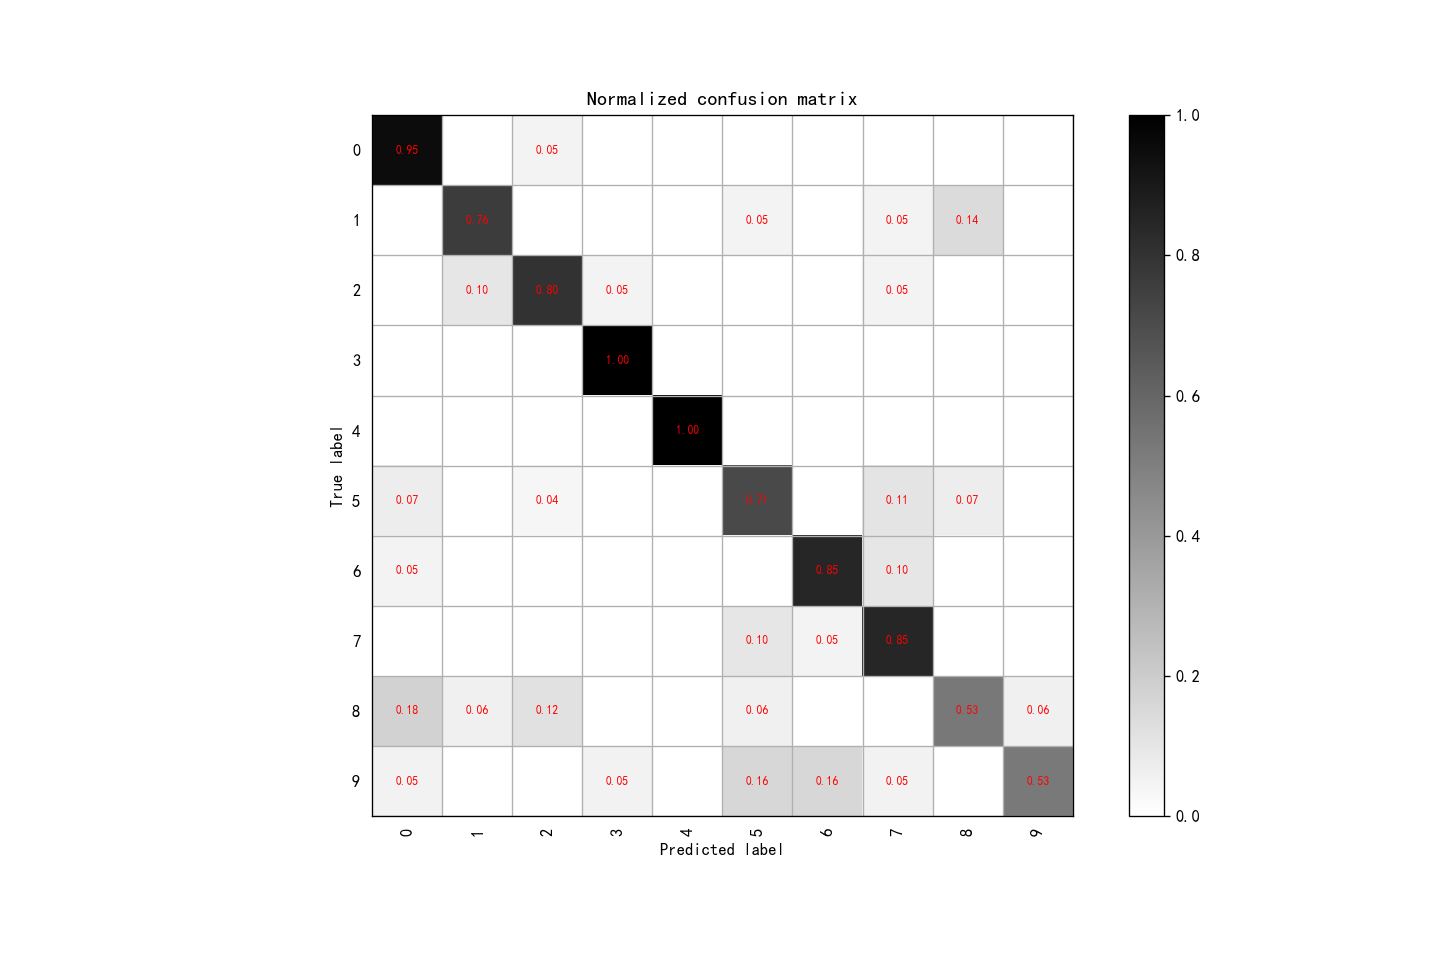
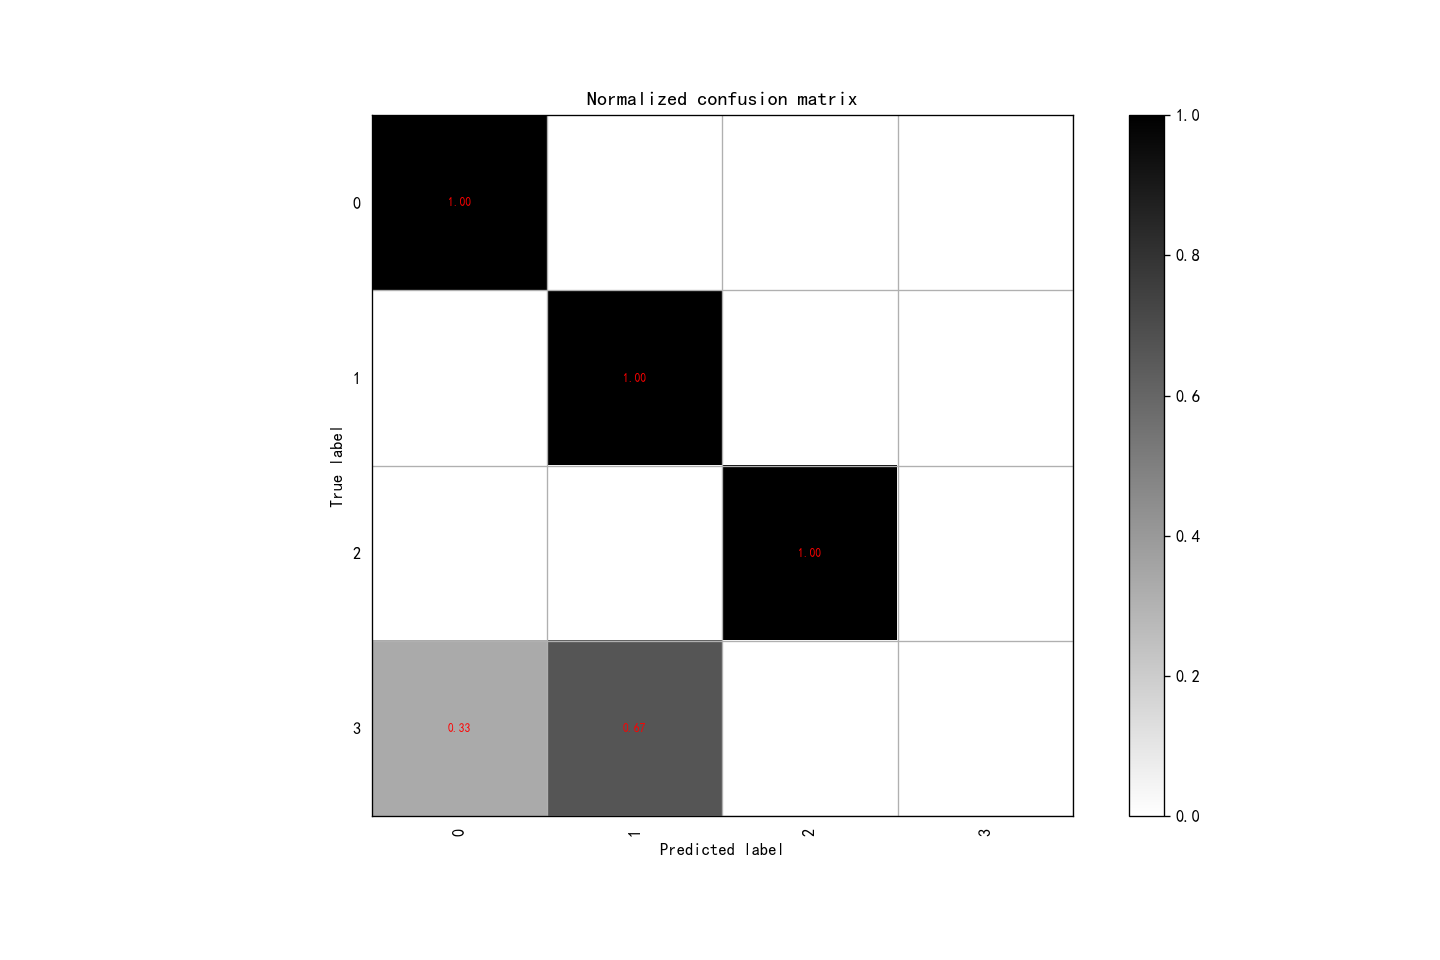
添加了自测的数据集，修改了读取路径

diff --git a/SVM.py b/SVM.py
@@ -21,11 +21,11 @@ X = []  # 定义图像名称
 Y = []  # 定义图像分类类标
 Z = []  # 定义图像像素
 # 记得更改此处4或者10
-for i in range(0, 10):
+for i in range(0, 4):
     # 遍历文件夹，读取图片
-    for f in os.listdir("photo2/%s" % i):
+    for f in os.listdir("photo3/%s" % i):
         # 获取图像名称
-        X.append("photo2//" + str(i) + "//" + str(f))
+        X.append("photo3//" + str(i) + "//" + str(f))
         # 获取图像类标即为文件夹名称
         Y.append(i)
 # print(X)
@@ -44,7 +44,7 @@ Y = np.array(Y)
 
 # 随机率为100% 选取其中的20%作为测试集
 X_train, X_test, y_train, y_test = train_test_split(X, Y,
-                                                    test_size=0.2, random_state=1)
+                                                    test_size=0.3, random_state=1)
 
 print(len(X_train), len(X_test), len(y_train), len(y_test))
 
@@ -141,8 +141,9 @@ print(classification_report(y_test, predictions_labels))
 # -*-coding:utf-8-*-
 
 # labels表示你不同类别的代号，比如这里的demo中有10个类别
-labels = [0, 1, 2, 3, 4, 5, 6, 7, 8, 9]
+# labels = [0, 1, 2, 3, 4, 5, 6, 7, 8, 9]
 # labels = ['条形缺陷', '未焊透', '未熔合', '圆形缺陷']
+labels = [0, 1, 2, 3]
 
 '''
 具体解释一下re_label.txt和pr_label.txt这两个文件，比如你有100个样本
@@ -194,6 +195,8 @@ def plot_confusion_matrix(cm, title='Confusion Matrix', cmap=plt.cm.binary):
     plt.xlabel('Predicted label')
 
 
+# 生成混淆矩阵的代码，不知道为什么报错了，被我注释掉了
+
 cm = confusion_matrix(y_true, y_pred)
 np.set_printoptions(precision=2)
 cm_normalized = cm.astype('float') / cm.sum(axis=1)[:, np.newaxis]
@@ -223,11 +226,44 @@ plt.show()
 
 
 
-# test
+# # test1
 
-# 在test_photo中添加想要分类的图像
-image_paths = ["test_photo/100.jpg", "test_photo/400.jpg"]  # 添加您要分类的图像的路径
+# # 在test_photo中添加想要分类的图像
+# image_paths = ["test_photo/100.jpg", "test_photo/400.jpg"]  # 添加您要分类的图像的路径
 
+# XX_test = []
+# for path in image_paths:
+#     # 读取图像
+#     image = cv2.imread(path)
+    
+#     # 调整图像大小
+#     img = cv2.resize(image, (256, 256), interpolation=cv2.INTER_CUBIC)
+
+#     # 计算直方图并将其存储在XX_test中
+#     hist = cv2.calcHist([img], [0, 1], None, [256, 256], [0.0, 255.0, 0.0, 255.0])
+#     XX_test.append(((hist / 255).flatten()))
+
+# # 将XX_test转换为numpy数组
+# XX_test = np.array(XX_test)
+
+# # 对XX_test进行分类
+# predictions_labels = clf.predict(XX_test)
+
+# # 打印预测的标签
+# print("预测的标签：")
+# print(predictions_labels)
+
+
+# test2
+
+# 遍历指定文件夹，获取所有图像文件的路径
+folder_path = "test_photo"  # 替换为实际的图像文件夹路径
+image_paths = []
+for filename in os.listdir(folder_path):
+    if filename.endswith(".jpg") or filename.endswith(".png"):
+        image_paths.append(os.path.join(folder_path, filename))
+
+# 加载图像并进行分类
 XX_test = []
 for path in image_paths:
     # 读取图像
